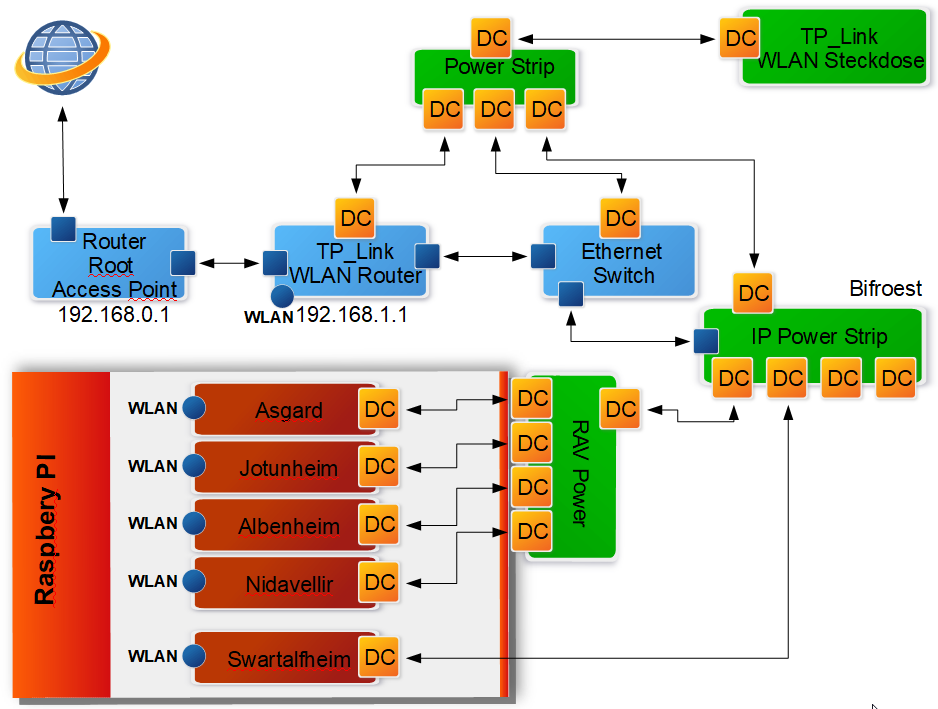
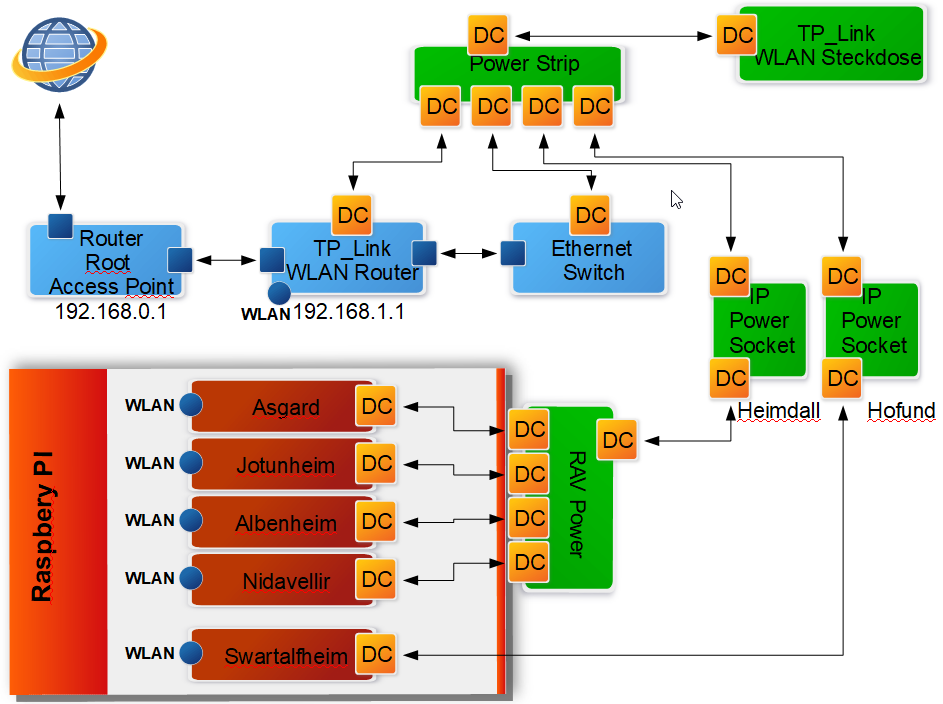
IP Steckdosenleiste ausgetauscht

Changed region(s): [[0.0, 0.0, 1.0, 1.0], [0.2473, 0.5625, 0.3401, 0.5938]]

diff --git a/docs/infrastruktur.md b/docs/infrastruktur.md
@@ -18,10 +18,8 @@
 - influxdb
 - node-exporter
 
-## Bifroest (IP Power Strip)
-- ``http://bifroest/sw?u=Heimdall&p=pwd``
-- ``http://bifroest/sw?u=Hofund&p=pwd&o=1&f=on``
-- ``http://bifroest/sw?u=Gungnir&p=pwd&o=2&f=on``
-- ``http://bifroest/sw?s=0``
-- ``http://bifroest/PM?T=/up``
-- ``http://bifroest/PM?T=/ne``
+## Heimdall (IP Power Socket)
+- [./ip-power.socket.sh](../scripts/ip-power.socket.sh) heimdall on/off
+
+## Hofund (IP Power Socket)
+- [./ip-power.socket.sh](../scripts/ip-power.socket.sh) hofund on/off
